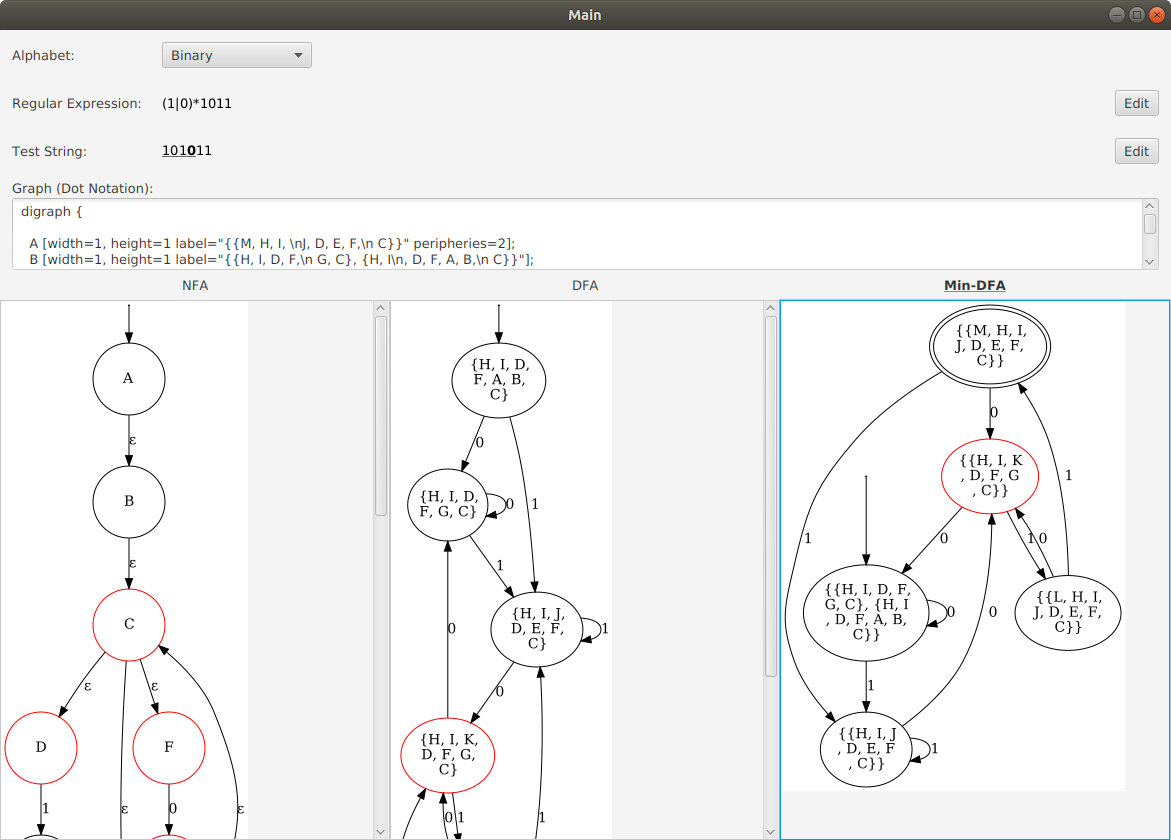
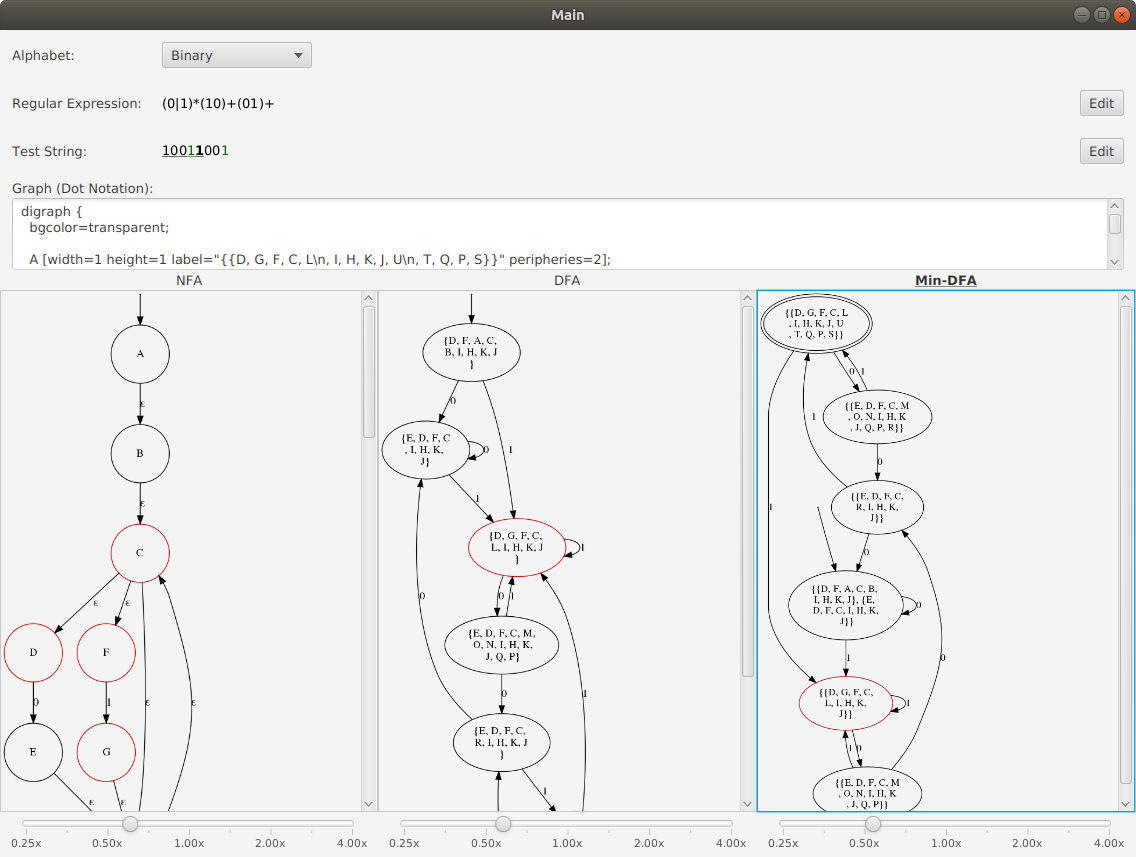
Small visual changes, and sliders zoom images
In image view, nodes corresponding to accepting states are colored green,
otherwise, they are colored red. Characters of the test string are also
colored green if they correspond to accepting states.
Changed image background to transparent in app.

Sliders below images are now connected and will zoom images.

diff --git a/src/main/java/RegexFA/Model/MainModel.java b/src/main/java/RegexFA/Model/MainModel.java
@@ -23,6 +23,7 @@ public class MainModel extends Model implements Closeable {
     private String testStringErrorMsg;
     private int testStringPos;
     private final ArrayList<Node> testStringDFANodes;
+    private final ArrayList<Boolean> testStringAcceptance;
     private NFAGraph nfa;
     private DFAGraph dfa;
     private DFAGraph min_dfa;
@@ -33,6 +34,7 @@ public class MainModel extends Model implements Closeable {
         testString = "";
         testStringPos = -1;
         testStringDFANodes = new ArrayList<>();
+        testStringAcceptance = new ArrayList<>();
         graphViz = new GraphViz();
     }
 
@@ -61,23 +63,27 @@ public class MainModel extends Model implements Closeable {
         testStringErrorMsg = "";
     }
 
-    private synchronized void generateColorNodeList() {
+    private synchronized void generateTestStringLists() {
         if (regexSuccess && testStringSuccess) {
             testStringDFANodes.clear();
+            testStringAcceptance.clear();
             DFANode curr = dfa.getRootNode();
             int i = 0;
             if (curr != null) {
                 testStringDFANodes.add(curr);
+                testStringAcceptance.add(curr.isAccept());
             }
             while (curr != null && i < testString.length()) {
                 curr = dfa.moveFromNode(curr, testString.charAt(i));
                 if (curr != null) {
                     testStringDFANodes.add(curr);
+                    testStringAcceptance.add(curr.isAccept());
                 }
                 i++;
             }
         } else {
             testStringDFANodes.clear();
+            testStringAcceptance.clear();
         }
     }
 
@@ -88,11 +94,11 @@ public class MainModel extends Model implements Closeable {
         }
         switch (graphChoice) {
             case DFA:
-                return dfa.toDotString_colorDFA(dfaNode);
+                return dfa.toDotString_colorDFA(dfaNode, true);
             case NFA:
-                return nfa.toDotString_colorNFA(dfaNode);
+                return nfa.toDotString_colorNFA(dfaNode, true);
             case MinDFA:
-                return min_dfa.toDotString_colorMinDFA(dfaNode);
+                return min_dfa.toDotString_colorMinDFA(dfaNode, true);
             default:
                 throw new IllegalStateException();
         }
@@ -100,6 +106,16 @@ public class MainModel extends Model implements Closeable {
 
     public synchronized Path getImage(GraphViewModel.GraphChoice graphChoice, String imgName) {
         return Graph.getImage(graphViz, getDotString(graphChoice), imgName);
+    }
+
+    public synchronized boolean getTestStringAcceptance(int i) {
+        if (i < 0 || i > testString.length()) {
+            throw new IllegalArgumentException();
+        }
+        if (i + 1 < testStringAcceptance.size()) {
+            return testStringAcceptance.get(i + 1);
+        }
+        return false;
     }
 
     public synchronized boolean isRegexSuccess() {
@@ -126,7 +142,7 @@ public class MainModel extends Model implements Closeable {
     public synchronized void setTestString(String testString) {
         this.testString = testString;
         validateTestString();
-        generateColorNodeList();
+        generateTestStringLists();
     }
 
     public synchronized String getRegexErrMsg() {

diff --git a/src/main/java/RegexFA/Graph/DFAGraph.java b/src/main/java/RegexFA/Graph/DFAGraph.java
@@ -52,20 +52,27 @@ public class DFAGraph extends Graph<DFANode> {
     }
 
     public String toDotString() {
-        return toDotString((node) -> false);
+        return toDotString(false);
     }
 
-    public String toDotString_colorDFA(Node dfaNode) {
-        return toDotString((node) -> dfaNode != null && node == dfaNode);
+    public String toDotString(boolean bgTransparent) {
+        return toDotString((node) -> false, bgTransparent);
     }
 
-    public String toDotString_colorMinDFA(Node dfaNode) {
-        return toDotString((node) -> dfaNode != null && node.getNodeSet().contains(dfaNode));
+    public String toDotString_colorDFA(Node dfaNode, boolean bgTransparent) {
+        return toDotString((node) -> dfaNode != null && node == dfaNode, bgTransparent);
     }
 
-    public String toDotString(Function<DFANode, Boolean> colorPredicate) {
+    public String toDotString_colorMinDFA(Node dfaNode, boolean bgTransparent) {
+        return toDotString((node) -> dfaNode != null && node.getNodeSet().contains(dfaNode), bgTransparent);
+    }
+
+    public String toDotString(Function<DFANode, Boolean> colorPredicate, boolean bgTransparent) {
         StringBuilder sb = new StringBuilder();
         sb.append("digraph {\n");
+        if (bgTransparent) {
+            sb.append("  bgcolor=transparent;\n");
+        }
         sb.append("\n");
         for (DFANode node : nodeList) {
             sb.append(String.format("  %s [width=1 height=1", node.getId()));
@@ -84,7 +91,11 @@ public class DFAGraph extends Graph<DFANode> {
                 sb.append("\"");
             }
             if (colorPredicate.apply(node)) {
-                sb.append(" color=red");
+                if (node.isAccept()) {
+                    sb.append(" color=green3");
+                } else {
+                    sb.append(" color=red3");
+                }
             }
             if (node.isAccept()) {
                 sb.append(" peripheries=2");

diff --git a/src/main/java/RegexFA/Controller/GraphViewController.java b/src/main/java/RegexFA/Controller/GraphViewController.java
@@ -175,6 +175,7 @@ public class GraphViewController extends Controller<GraphViewModel> {
         ImageView target = imageViewHashMap.get(msg.graphChoice);
         if (msg.imagePath != null) {
             target.setImage(new Image(msg.imagePath.toUri().toString()));
+            updateImageZoom(msg.graphChoice);
         } else {
             target.setImage(null);
         }
@@ -205,6 +206,14 @@ public class GraphViewController extends Controller<GraphViewModel> {
         gridPane_images.getColumnConstraints().get(0).setPercentWidth(getColumnWidth(GraphViewModel.GraphChoice.NFA));
         gridPane_images.getColumnConstraints().get(1).setPercentWidth(getColumnWidth(GraphViewModel.GraphChoice.DFA));
         gridPane_images.getColumnConstraints().get(2).setPercentWidth(getColumnWidth(GraphViewModel.GraphChoice.MinDFA));
+    }
+
+    private void updateImageZoom(GraphViewModel.GraphChoice graphChoice) {
+        ImageView imageView = imageViewHashMap.get(graphChoice);
+        Image image = imageView.getImage();
+        if (image != null) {
+            imageView.setFitHeight(image.getHeight() * model.getZoom(graphChoice));
+        }
     }
 
     private void updateLabels() {
@@ -296,6 +305,16 @@ public class GraphViewController extends Controller<GraphViewModel> {
         slider_nfa.setLabelFormatter(labelConverter);
         slider_dfa.setLabelFormatter(labelConverter);
         slider_min_dfa.setLabelFormatter(labelConverter);
+
+        for (GraphViewModel.GraphChoice graphChoice : GraphViewModel.GraphChoice.values()) {
+            sliderHashMap.get(graphChoice).valueProperty().addListener(
+                    (observable, oldValue, newValue) -> {
+                        model.setZoom(graphChoice, Math.pow(2, newValue.doubleValue()));
+                        updateImageZoom(graphChoice);
+                    }
+            );
+        }
+
         updateLabels();
     }
 }

diff --git a/src/main/java/RegexFA/Graph/NFAGraph.java b/src/main/java/RegexFA/Graph/NFAGraph.java
@@ -75,16 +75,23 @@ public class NFAGraph extends Graph<Node> {
     }
 
     public String toDotString() {
-        return toDotString((node) -> false);
+        return toDotString((node) -> false, false);
     }
 
-    public String toDotString_colorNFA(Node dfaNodes) {
-        return toDotString((node) -> dfaNodes != null && dfaNodes.getNodeSet() != null && dfaNodes.getNodeSet().contains(node));
+    public String toDotString(boolean bgTransparent) {
+        return toDotString((node) -> false, bgTransparent);
     }
 
-    public String toDotString(Function<Node, Boolean> colorPredicate) {
+    public String toDotString_colorNFA(Node dfaNodes, boolean bgTransparent) {
+        return toDotString((node) -> dfaNodes != null && dfaNodes.getNodeSet() != null && dfaNodes.getNodeSet().contains(node), bgTransparent);
+    }
+
+    public String toDotString(Function<Node, Boolean> colorPredicate, boolean bgTransparent) {
         StringBuilder sb = new StringBuilder();
         sb.append("digraph {\n");
+        if (bgTransparent) {
+            sb.append("  bgcolor=transparent;\n");
+        }
         sb.append("\n");
         for (Node node : nodeList) {
             sb.append(String.format("  %s [width=1 height=1", node.getId()));
@@ -103,7 +110,11 @@ public class NFAGraph extends Graph<Node> {
                 sb.append("\"");
             }
             if (colorPredicate.apply(node)) {
-                sb.append(" color=red");
+                if (node.isAccept()) {
+                    sb.append(" color=green3");
+                } else {
+                    sb.append(" color=red3");
+                }
             }
             if (node.isAccept()) {
                 sb.append(" peripheries=2");

diff --git a/src/main/java/RegexFA/Controller/MainController.java b/src/main/java/RegexFA/Controller/MainController.java
@@ -275,13 +275,16 @@ public class MainController extends Controller<MainModel> {
     private void updatePos() {
         int pos = model.getTestStringPos();
         for (int i = 0; i < testStringArrayList.size(); i++) {
-            if (i < pos) {
-                testStringArrayList.get(i).styleProperty().setValue("-fx-underline:true");
-            } else if (i == pos) {
-                testStringArrayList.get(i).styleProperty().setValue("-fx-font-weight: bold; -fx-underline:true");
-            } else {
-                testStringArrayList.get(i).styleProperty().setValue("");
+            StringBuilder sb = new StringBuilder();
+            if (model.getTestStringAcceptance(i)) {
+                sb.append("-fx-fill: darkgreen; ");
             }
+            if (i < pos) {
+                sb.append("-fx-underline:true; ");
+            } else if (i == pos) {
+                sb.append("-fx-font-weight: bold; -fx-underline:true; ");
+            }
+            testStringArrayList.get(i).styleProperty().setValue(sb.toString());
         }
         updateDotString();
         updateImages();

diff --git a/src/main/java/RegexFA/Model/GraphViewModel.java b/src/main/java/RegexFA/Model/GraphViewModel.java
@@ -1,12 +1,19 @@
 package RegexFA.Model;
 
+import java.util.HashMap;
+
 public class GraphViewModel extends Model {
     private GraphPaneChoice graphPaneChoice;
     private GraphChoice dotStringChoice;
+    private final HashMap<GraphChoice, Double> zoomHashMap;
 
     public GraphViewModel() {
         graphPaneChoice = GraphPaneChoice.ALL;
         dotStringChoice = GraphChoice.NFA;
+        zoomHashMap = new HashMap<>();
+        for (GraphChoice graphChoice : GraphChoice.values()) {
+            zoomHashMap.put(graphChoice, 1.0);
+        }
     }
 
     public GraphPaneChoice getGraphPaneChoice() {
@@ -23,6 +30,14 @@ public class GraphViewModel extends Model {
 
     public void setDotStringChoice(GraphChoice dotStringChoice) {
         this.dotStringChoice = dotStringChoice;
+    }
+
+    public double getZoom(GraphChoice graphChoice) {
+        return zoomHashMap.get(graphChoice);
+    }
+
+    public void setZoom(GraphChoice graphChoice, double zoom) {
+        zoomHashMap.put(graphChoice, zoom);
     }
 
     public enum GraphPaneChoice {
